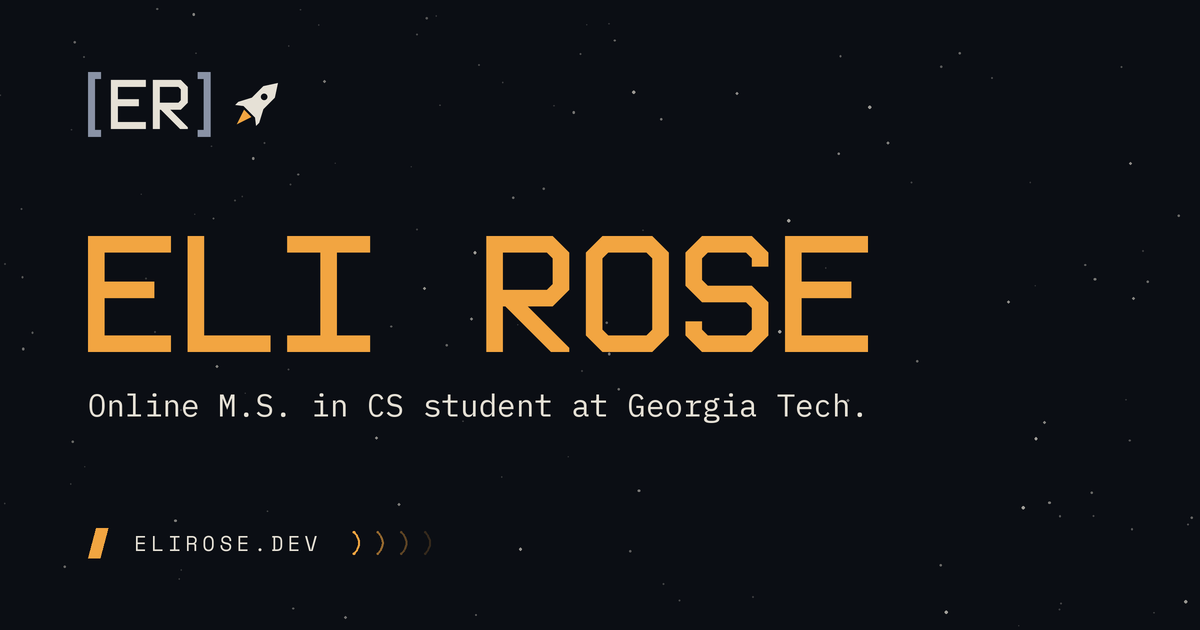
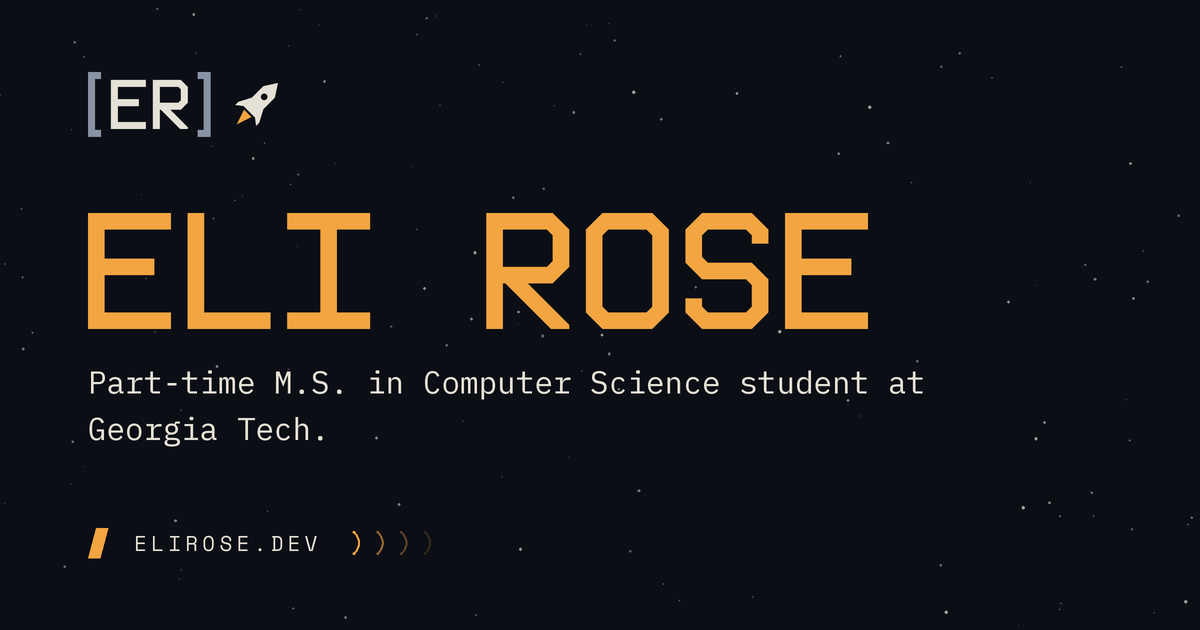
Copy: aim the hero, About and meta description at software engineering roles, and a new preview image for the tagline

Changed region(s): [[0.0617, 0.3317, 0.7708, 0.7238], [0.2158, 0.3317, 0.3083, 0.4222]]

diff --git a/src/content/site.ts b/src/content/site.ts
@@ -1,7 +1,7 @@
 export const site = {
 	name: "Eli Rose",
-	tagline: "Online M.S. in CS student at Georgia Tech.",
-	availability: "Seeking Summer 2027 software engineering & robotics internships.",
+	tagline: "Part-time M.S. in Computer Science student at Georgia Tech.",
+	availability: "Open to full-time SWE roles and summer 2027 internships.",
 	resume: "/files/Eli-Rose-Resume.pdf", // named so a downloaded copy is identifiable
 	github: "https://github.com/eli-rosee",
 	linkedin: "https://www.linkedin.com/in/eli-rose-ua/",

diff --git a/src/content/about.md b/src/content/about.md
@@ -1,16 +1,16 @@
 ---
 # The statement that opens the About section, in its own row above the text and the clip card.
 # Wrap a phrase in *asterisks* to set it in amber.
-statement: "I'm fascinated by software that interacts with *the physical world*"
+statement: "I build software that senses *the physical world*."
 ---
 
 ### Where I started
 
-I started in data. For my senior capstone, I built a large-scale data ingestion and analysis pipeline for Formula 1 telemetry in collaboration with a **General Motorsports** data science team.
+I started in real-world data. For my senior capstone, I built a large-scale data ingestion and analysis pipeline for Formula 1 telemetry in collaboration with a **General Motorsports** data science team.
 
 ### What I'm doing now
 
-I'm a grad student at Georgia Tech. I'm in the online M.S. in Computer Science, focusing on **robotics**, **perception**, and **machine learning**. I build projects through coursework and on my own, and work part time at Geek Squad.
+I'm a grad student at Georgia Tech. I'm in the online M.S. in Computer Science, focusing on **robotics**, **perception**, and **machine learning**. Most recently I built probabilistic filters that localize objects from noisy sensor data. I’m looking for a full-time software engineering role where I can keep building systems that interact with the real world.
 
 ### Where this runs
 
